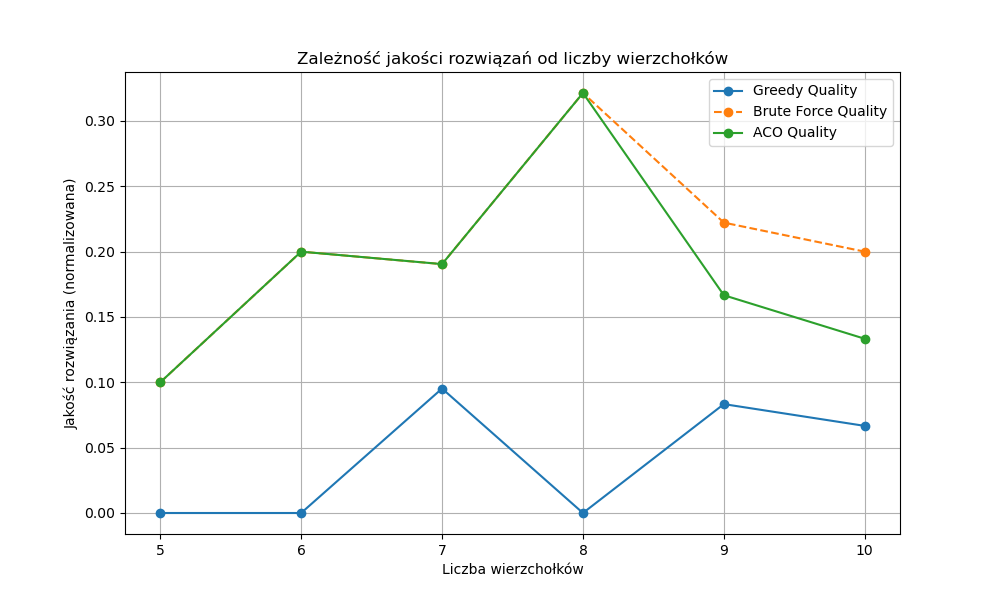
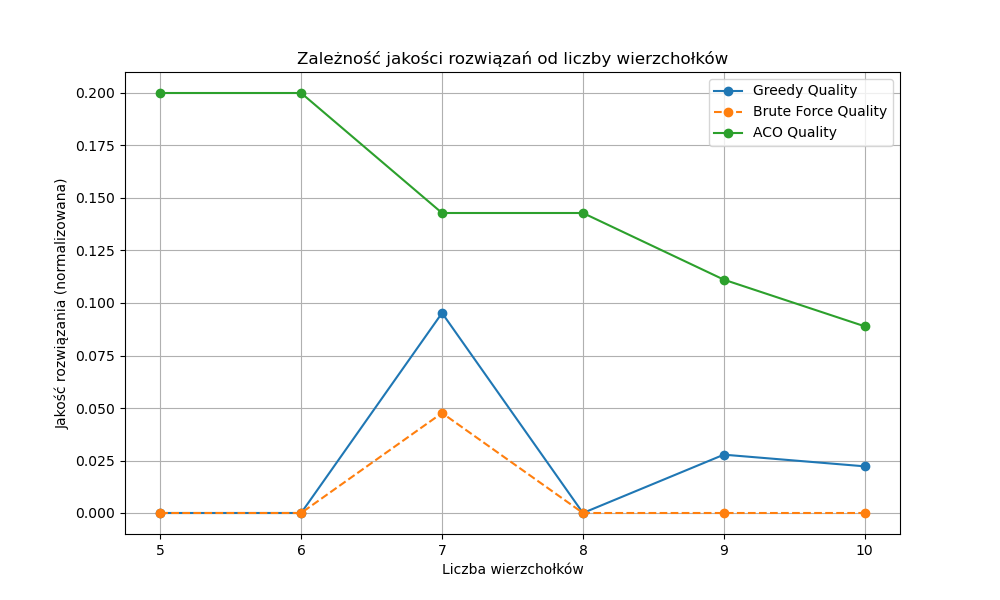
100% and beyond!

diff --git a/src/benchmark.py b/src/benchmark.py
@@ -1,7 +1,7 @@
 import time
 import matplotlib.pyplot as plt
 from main import Graph
-import os 
+import os
 
 output_folder = os.path.join(os.path.dirname(os.path.dirname(__file__)), 'data')
 os.makedirs(output_folder, exist_ok=True)
@@ -11,7 +11,7 @@ os.environ["MKL_NUM_THREADS"] = "1"
 os.environ["OPENBLAS_NUM_THREADS"] = "1"
 
 def compare_algorithms_and_quality():
-    vertex_counts = range(5, 11)  # Liczba wierzchołków do testowania (maksymalnie 10)
+    vertex_counts = range(5, 11)  # Liczba wierzchołków do testowania
     greedy_times = []
     brute_force_times = []
     aco_times = []
@@ -32,52 +32,43 @@ def compare_algorithms_and_quality():
         graph2.initialize_pheromones()
 
         # Algorytm zachłanny (Greedy)
-        # print("Uruchamianie algorytmu zachłannego (Greedy)...")
         start_time = time.perf_counter()
         greedy_mapping = graph1.greedy_isomorphism(graph2)
         greedy_time = time.perf_counter() - start_time
         greedy_score = graph1.evaluate_mapping(graph1, graph2, greedy_mapping)
         greedy_times.append(greedy_time)
-        greedy_qualities.append(greedy_score / (num_vertices * (num_vertices - 1)))  # Normalizowana jakość
+        greedy_qualities.append(greedy_score / max(1, (num_vertices * (num_vertices - 1))))  # Normalizowana jakość
         print(f"Greedy: czas = {greedy_time:.6f}s, jakość = {greedy_qualities[-1]:.6f}")
 
-        # Algorytm brute-force 
-        if num_vertices <= 30:  
-            # print("Uruchamianie algorytmu brute-force...")
-            start_time = time.perf_counter()
-            brute_force_mapping, brute_force_score = graph1.brute_force_isomorphism(graph2)
-            brute_force_time = time.perf_counter() - start_time
-            brute_force_times.append(brute_force_time)
-            brute_force_qualities.append(brute_force_score / (num_vertices * (num_vertices - 1)))  # Normalizowana jakość
-            print(f"BruteForce: czas = {brute_force_time:.6f}s, jakość = {brute_force_qualities[-1]:.6f}")
-        else:
-            brute_force_times.append(None)
-            brute_force_qualities.append(None)
-            print("BruteForce: pominięte (zbyt duży graf).")
+        # Algorytm brute-force
+        start_time = time.perf_counter()
+        brute_force_mapping, brute_force_score = graph1.brute_force_isomorphism(graph2)
+        brute_force_time = time.perf_counter() - start_time
+        brute_force_times.append(brute_force_time)
+        brute_force_qualities.append(brute_force_score / max(1, (num_vertices * (num_vertices - 1))))
+        print(f"BruteForce: czas = {brute_force_time:.6f}s, jakość = {brute_force_qualities[-1]:.6f}")
 
         # Algorytm mrówkowy (ACO)
-        # print("Uruchamianie algorytmu mrówkowego (ACO)...")
         start_time = time.perf_counter()
         aco_mapping, aco_score = graph1.run_aco_for_isomorphism(
-            graph1, graph2, num_ants=30, num_iterations=100, alpha=1, beta=2, decay=0.1, pheromone_increase=5
+            graph1, graph2, num_ants=10, num_iterations=10, alpha=1, beta=2, decay=0.1, pheromone_increase=5
         )
         aco_time = time.perf_counter() - start_time
         aco_times.append(aco_time)
-        aco_qualities.append(aco_score / (num_vertices * (num_vertices - 1)))  # Normalizowana jakość
+        aco_qualities.append(aco_score / max(1, (num_vertices * (num_vertices - 1))))
         print(f"ACO: czas = {aco_time:.6f}s, jakość = {aco_qualities[-1]:.6f}")
 
     # Generowanie wykresów
     create_time_plot(vertex_counts, greedy_times, brute_force_times, aco_times)
     create_quality_plot(vertex_counts, greedy_qualities, brute_force_qualities, aco_qualities)
-
+    create_differences_plot(vertex_counts, greedy_qualities, brute_force_qualities, aco_qualities)
+    create_time_vs_quality_plot(greedy_times, greedy_qualities, brute_force_times, brute_force_qualities, aco_times, aco_qualities)
 
 def create_time_plot(vertex_counts, greedy_times, brute_force_times, aco_times):
     plt.figure(figsize=(10, 6))
-    brute_force_cleaned = [t if t is not None else float('inf') for t in brute_force_times]
-
 
     plt.plot(vertex_counts, greedy_times, label="Greedy", marker="o", linestyle="-")
-    plt.plot(vertex_counts, brute_force_cleaned, label="Brute Force", marker="o", linestyle="--")
+    plt.plot(vertex_counts, brute_force_times, label="Brute Force", marker="o", linestyle="--")
     plt.plot(vertex_counts, aco_times, label="ACO", marker="o", linestyle="-")
     plt.yscale("log")  
     plt.xlabel("Liczba wierzchołków")
@@ -89,13 +80,11 @@ def create_time_plot(vertex_counts, greedy_times, brute_force_times, aco_times):
     plt.savefig(filepath)
     plt.show()
 
-
 def create_quality_plot(vertex_counts, greedy_qualities, brute_force_qualities, aco_qualities):
     plt.figure(figsize=(10, 6))
-    brute_force_cleaned = [q if q is not None else 0 for q in brute_force_qualities]
 
     plt.plot(vertex_counts, greedy_qualities, label="Greedy Quality", marker="o", linestyle="-")
-    plt.plot(vertex_counts, brute_force_cleaned, label="Brute Force Quality", marker="o", linestyle="--")
+    plt.plot(vertex_counts, brute_force_qualities, label="Brute Force Quality", marker="o", linestyle="--")
     plt.plot(vertex_counts, aco_qualities, label="ACO Quality", marker="o", linestyle="-")
     plt.xlabel("Liczba wierzchołków")
     plt.ylabel("Jakość rozwiązania (normalizowana)")
@@ -106,6 +95,38 @@ def create_quality_plot(vertex_counts, greedy_qualities, brute_force_qualities, 
     plt.savefig(filepath)
     plt.show()
 
+def create_differences_plot(vertex_counts, greedy_qualities, brute_force_qualities, aco_qualities):
+    plt.figure(figsize=(10, 6))
+
+    plt.plot(vertex_counts, [aco - greedy for aco, greedy in zip(aco_qualities, greedy_qualities)], label="ACO - Greedy", marker="o")
+    plt.plot(vertex_counts, [aco - brute for aco, brute in zip(aco_qualities, brute_force_qualities)], label="ACO - Brute Force", marker="o")
+    plt.plot(vertex_counts, [greedy - brute for greedy, brute in zip(greedy_qualities, brute_force_qualities)], label="Greedy - Brute Force", marker="o")
+
+    plt.xlabel("Liczba wierzchołków")
+    plt.ylabel("Różnica w jakości")
+    plt.title("Różnice w jakości rozwiązań między algorytmami")
+    plt.legend()
+    plt.grid()
+    filepath = os.path.join(output_folder, "algorithm_quality_differences.png")
+    plt.savefig(filepath)
+    plt.show()
+
+def create_time_vs_quality_plot(greedy_times, greedy_qualities, brute_force_times, brute_force_qualities, aco_times, aco_qualities):
+    plt.figure(figsize=(10, 6))
+
+    plt.scatter(greedy_times, greedy_qualities, label="Greedy", color="blue", marker="o")
+    plt.scatter(brute_force_times, brute_force_qualities, label="Brute Force", color="green", marker="s")
+    plt.scatter(aco_times, aco_qualities, label="ACO", color="red", marker="^")
+
+    plt.xscale("log")
+    plt.xlabel("Czas wykonania (s) [log scale]")
+    plt.ylabel("Jakość rozwiązania (normalizowana)")
+    plt.title("Zależność jakości rozwiązań od czasu wykonania")
+    plt.legend()
+    plt.grid()
+    filepath = os.path.join(output_folder, "time_vs_quality_comparison.png")
+    plt.savefig(filepath)
+    plt.show()
 
 if __name__ == "__main__":
     compare_algorithms_and_quality()

diff --git a/src/main.py b/src/main.py
@@ -100,21 +100,44 @@ class Graph:
         return mapping
 
     def brute_force_isomorphism(self, graph2):
+        """
+        Zoptymalizowana wersja algorytmu brute-force z redukcją permutacji.
+        """
         self.validate_graph_size(graph2)
-        print("Wykonywanie pełnego przeglądu (brute-force)...")
+        print("Wykonywanie zoptymalizowanego brute-force...")
+
+        # Tworzymy grupy wierzchołków o tym samym stopniu
+        degrees1 = {i: sum(1 for x in self.adjacency_matrix[i] if x > 0) for i in range(self.num_vertices)}
+        degrees2 = {i: sum(1 for x in graph2.adjacency_matrix[i] if x > 0) for i in range(graph2.num_vertices)}
+
+        groups1 = {}
+        groups2 = {}
+
+        for v, degree in degrees1.items():
+            groups1.setdefault(degree, []).append(v)
+        for v, degree in degrees2.items():
+            groups2.setdefault(degree, []).append(v)
+
+        # Redukcja permutacji: Dopasowujemy tylko wierzchołki z tych samych grup stopni
+        possible_mappings = []
+        for degree in groups1:
+            if degree in groups2:
+                for perm in permutations(groups2[degree], len(groups1[degree])):
+                    mapping = list(zip(groups1[degree], perm))
+                    possible_mappings.append(mapping)
+
         best_mapping = None
-        best_score = 0
-        total_permutations = len(list(permutations(range(graph2.num_vertices))))  # Liczba permutacji
-        with tqdm(total=total_permutations, desc="Brute-force progress", leave=True) as pbar:
-            for perm in permutations(range(graph2.num_vertices)):
-                mapping = [(u, v) for u, v in enumerate(perm)]
-                score = self.evaluate_mapping(self, graph2, mapping)
-                if score > best_score:
-                    best_score = score
-                    best_mapping = mapping
-                pbar.update(1)  
-        print("Algorytm brute-force zakończony!")
+        best_score = float('-inf')
+
+        for mapping in tqdm(possible_mappings, desc="Brute-force progress", leave=True):
+            score = self.evaluate_mapping(self, graph2, mapping)  # Poprawne wywołanie
+            if score > best_score:
+                best_score = score
+                best_mapping = mapping
+
+        print("Zoptymalizowany brute-force zakończony!")
         return best_mapping, best_score
+
 
 
     def evaluate_mapping(self, graph1, graph2, mapping):
@@ -272,13 +295,23 @@ class Graph:
     
     def save_mapping_to_json(self, graph2, mapping, filename):
         """
-        Zapisuje grafy i mapping do pliku JSON.
+        Zapisuje grafy i mapping do pliku JSON z dodatkową analizą.
         """
-        project_root = os.path.dirname(os.path.dirname(__file__)) 
-        output_folder = os.path.join(project_root, 'results')
-        os.makedirs(output_folder, exist_ok=True)
+        # Pobieramy katalog główny projektu
+        project_root = os.path.abspath(os.path.join(os.path.dirname(__file__), '..'))  
+        output_folder = os.path.join(project_root, 'results')  # Folder results w głównym katalogu projektu
+        os.makedirs(output_folder, exist_ok=True)  # Tworzymy folder, jeśli nie istnieje
         filepath = os.path.join(output_folder, filename)
         
+        # Obliczenie dodatkowej analizy mappingu
+        edge_matches = sum(
+            1
+            for u, v in mapping
+            for neighbor_u in range(self.num_vertices)
+            if self.adjacency_matrix[u][neighbor_u] > 0
+            and graph2.adjacency_matrix[v][next((m[1] for m in mapping if m[0] == neighbor_u), -1)] == self.adjacency_matrix[u][neighbor_u]
+        )
+
         data = {
             "Graph1": {
                 "num_vertices": self.num_vertices,
@@ -288,10 +321,19 @@ class Graph:
                 "num_vertices": graph2.num_vertices,
                 "adjacency_matrix": graph2.adjacency_matrix
             },
-            "Mapping": mapping
+            "Mapping": mapping,
+            "Analysis": {
+                "EdgeMatches": edge_matches,
+                "TotalMappingSize": len(mapping)
+            }
         }
+
         with open(filepath, "w") as f:
             json.dump(data, f, indent=4)
+        print(f"Mapping zapisany do pliku {filepath}")
+
+
+
 
 
 def main():

diff --git a/src/generator.py b/src/generator.py
@@ -1,12 +1,15 @@
 import random
 import json
-import os 
+import os
+
 def generate_two_test_instances():
     """
-    Generuje dwa różne grafy w formacie JSON na podstawie danych wejściowych od użytkownika.
+    Generuje dwa różne grafy w formacie JSON na podstawie danych wejściowych od użytkownika,
+    uwzględniając nowe cechy, takie jak macierz feromonów.
     """
     output_folder = os.path.join(os.path.dirname(os.path.dirname(__file__)), 'data')
     os.makedirs(output_folder, exist_ok=True)
+
     try:
         n_vertices = int(input("Podaj liczbę wierzchołków w grafach: "))
         edge_probability = float(input("Podaj prawdopodobieństwo krawędzi (0-1): "))
@@ -18,6 +21,7 @@ def generate_two_test_instances():
     # Funkcja pomocnicza do generowania pojedynczego grafu
     def generate_graph():
         adjacency_matrix = [[0 for _ in range(n_vertices)] for _ in range(n_vertices)]
+        pheromone_matrix = [[1 for _ in range(n_vertices)] for _ in range(n_vertices)]  # Macierz feromonów
         for u in range(n_vertices):
             for v in range(u + 1, n_vertices):
                 if random.random() <= edge_probability:
@@ -26,7 +30,8 @@ def generate_two_test_instances():
                     adjacency_matrix[v][u] = weight
         return {
             "num_vertices": n_vertices,
-            "adjacency_matrix": adjacency_matrix
+            "adjacency_matrix": adjacency_matrix,
+            "pheromone_matrix": pheromone_matrix  # Nowa cecha
         }
 
     # Generowanie dwóch grafów
@@ -37,9 +42,7 @@ def generate_two_test_instances():
     filename1 = os.path.join(output_folder, input("Podaj nazwę pliku dla pierwszego grafu (np. graph1): ") + ".json")
     filename2 = os.path.join(output_folder, input("Podaj nazwę pliku dla drugiego grafu (np. graph2): ") + ".json")
 
-    os.makedirs("data", exist_ok=True)  # Utwórz folder, jeśli nie istnieje
-
-    # Zapisywanie grafów
+    # Zapisywanie grafów z nową strukturą
     with open(filename1, "w") as f:
         json.dump(graph1, f, indent=4)
     print(f"Wygenerowano pierwszy graf zapisany jako {filename1}")
@@ -50,5 +53,5 @@ def generate_two_test_instances():
 
 
 if __name__ == "__main__":
-    print("Generowanie dwóch grafów...")
+    print("Generowanie dwóch grafów z nowymi cechami...")
     generate_two_test_instances()
